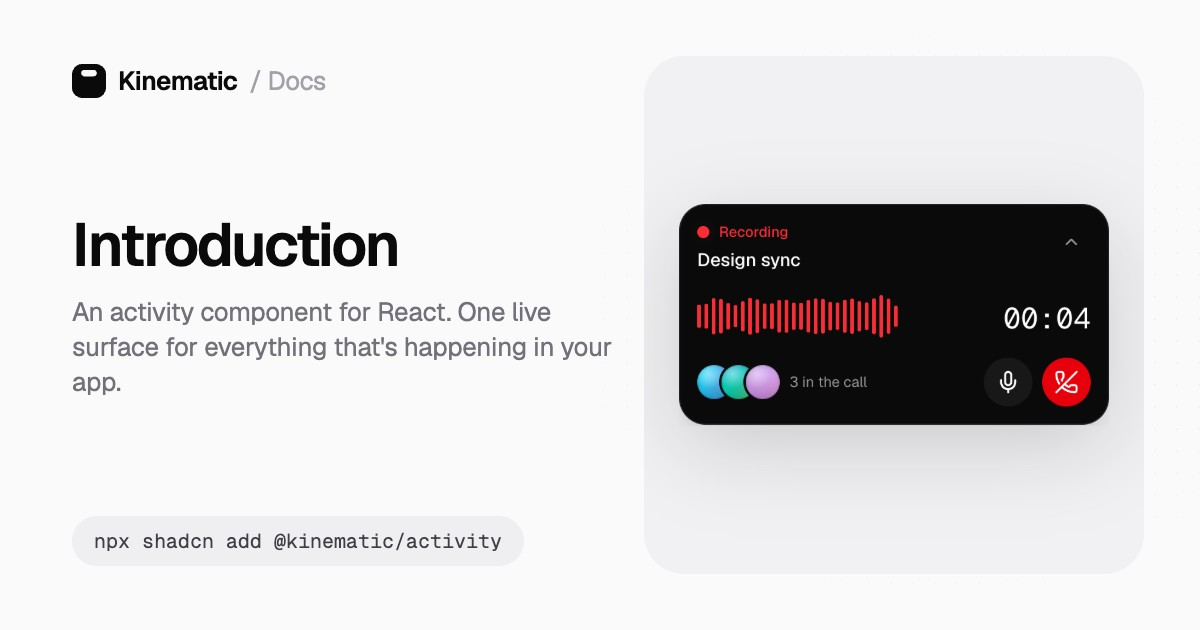
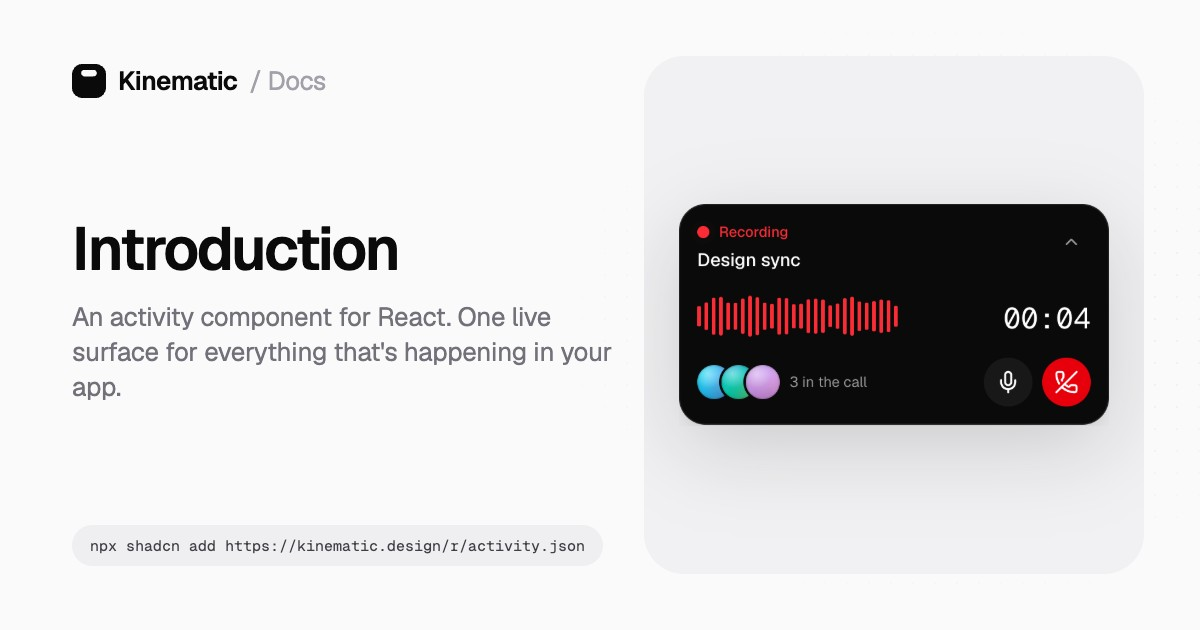
Install by URL until the shadcn directory lists @kinematic
The namespaced command fails for anyone without the registry
configured. Every install command on the site now comes from one
helper driven by site.registry.listed, which uses the registry URL
today and switches to @kinematic/... once listed. Registry items
reference their dependencies by URL so a URL install resolves them,
the smoke test installs the same way users do, and pnpm og fails
fast when the dev server is not running.

diff --git a/src/components/site/install-command.tsx b/src/components/site/install-command.tsx
@@ -1,6 +1,7 @@
 "use client"
 
 import { CopyButton } from "@/components/site/copy-button"
+import { shadcnAdd } from "@/lib/install"
 import { Tabs, TabsContent, TabsList, TabsTrigger } from "@/components/ui/tabs"
 
 const runners = {
@@ -16,7 +17,8 @@ function commandFor(runner: Runner, args: string) {
   return `${runners[runner]} shadcn@latest ${args}`
 }
 
-export function InstallCommand({ args }: { args: string }) {
+export function InstallCommand({ args, items = ["activity"] }: { args?: string; items?: string[] }) {
+  const command = args ?? shadcnAdd(items)
   return (
     <Tabs defaultValue="pnpm" className="not-prose my-4 gap-0 overflow-hidden rounded-xl border bg-code">
       <div className="flex items-center border-b px-2 py-1.5">
@@ -30,8 +32,8 @@ export function InstallCommand({ args }: { args: string }) {
       </div>
       {(Object.keys(runners) as Runner[]).map((runner) => (
         <TabsContent key={runner} value={runner} className="flex items-center justify-between gap-4 py-2 pr-2 pl-4">
-          <code className="overflow-x-auto font-mono text-[13px] whitespace-nowrap">{commandFor(runner, args)}</code>
-          <CopyButton value={commandFor(runner, args)} />
+          <code className="overflow-x-auto font-mono text-[13px] whitespace-nowrap">{commandFor(runner, command)}</code>
+          <CopyButton value={commandFor(runner, command)} />
         </TabsContent>
       ))}
     </Tabs>

diff --git a/src/app/page.tsx b/src/app/page.tsx
@@ -9,6 +9,7 @@ import { CopyButton } from "@/components/site/copy-button"
 import { PageIntro } from "@/components/site/page-intro"
 import { JsonLd } from "@/components/site/json-ld"
 import { site } from "@/config/site"
+import { installCommand } from "@/lib/install"
 import { pageMetadata } from "@/lib/metadata"
 import { sourceCodeSchema, websiteSchema } from "@/lib/structured-data"
 
@@ -19,17 +20,15 @@ const LINKS = [
   { label: "Playground", href: "/playground" },
 ]
 
-const INSTALL_COMMAND = `npx shadcn add ${site.registryNamespace}/activity`
-
 function Hero() {
   return (
     <PageIntro title="Activity Component for React." tagline="Built for things that take a while.">
       <div className="flex max-w-full flex-wrap items-center gap-x-6 gap-y-3 text-sm">
         <span className="flex h-10 max-w-full min-w-0 items-center gap-0.5 rounded-full bg-muted pr-1 pl-4">
           <code className="min-w-0 overflow-hidden font-mono text-[13px] text-ellipsis whitespace-nowrap">
-            {INSTALL_COMMAND}
+            {installCommand}
           </code>
-          <CopyButton value={INSTALL_COMMAND} className="shrink-0" />
+          <CopyButton value={installCommand} className="shrink-0" />
         </span>
         {LINKS.map((link) => (
           <Link

diff --git a/src/app/showcase/[id]/page.tsx b/src/app/showcase/[id]/page.tsx
@@ -9,7 +9,6 @@ import { Step, Steps } from "@/components/site/docs-blocks"
 import { HighlightedCode } from "@/components/site/highlighted-code"
 import { InstallCommand } from "@/components/site/install-command"
 import { JsonLd } from "@/components/site/json-ld"
-import { site } from "@/config/site"
 import { pageMetadata } from "@/lib/metadata"
 import { breadcrumbSchema, sourceCodeSchema } from "@/lib/structured-data"
 import { readExampleSource } from "@/lib/registry-files"
@@ -50,7 +49,7 @@ async function ShowcaseItem({ params }: { params: Params }) {
   const code = (
     <Steps className="my-1 gap-7">
       <Step title="Add the primitives">
-        <InstallCommand args={`add ${registryItems.map((name) => `${site.registryNamespace}/${name}`).join(" ")}`} />
+        <InstallCommand items={registryItems} />
       </Step>
       <Step title="Copy the file">
         <p>

diff --git a/src/components/playground/code-panel.tsx b/src/components/playground/code-panel.tsx
@@ -2,7 +2,6 @@ import type { CatalogItem, Options } from "@/components/playground/catalog"
 import type { StageSettings } from "@/components/playground/stage"
 import { HighlightedCode } from "@/components/site/highlighted-code"
 import { InstallCommand } from "@/components/site/install-command"
-import { site } from "@/config/site"
 
 function viewportCode({ position, layout }: StageSettings) {
   const props = [
@@ -37,7 +36,7 @@ export function CodePanel({
   return (
     <div className="flex flex-col gap-5">
       <Step title="1. Install">
-        <InstallCommand args={`add ${site.registryNamespace}/${item.registry}`} />
+        <InstallCommand items={[item.registry]} />
       </Step>
       <Step title="2. Once, in your root layout">
         <HighlightedCode code={viewportCode(settings)} />

diff --git a/src/lib/install.ts b/src/lib/install.ts
@@ -1,0 +1,12 @@
+import { site } from "@/config/site"
+
+function registryItem(name: string) {
+  const { namespace, url, listed } = site.registry
+  return listed ? `${namespace}/${name}` : `${url}/${name}.json`
+}
+
+export function shadcnAdd(items: string[]) {
+  return `add ${items.map(registryItem).join(" ")}`
+}
+
+export const installCommand = `npx shadcn@latest ${shadcnAdd(["activity"])}`

diff --git a/src/config/site.ts b/src/config/site.ts
@@ -17,6 +17,6 @@ export const site = {
   ],
   url: "https://kinematic.design",
   github: "https://github.com/Soumyadas15/kinematic",
-  registryNamespace: "@kinematic",
+  registry: { namespace: "@kinematic", url: "https://kinematic.design/r", listed: false },
   author: { name: "Saumya Das", url: "https://saumyadas.dev" },
 }

diff --git a/README.md b/README.md
@@ -11,8 +11,7 @@ It sits small when you glance at it and opens up when you look. Start something 
 In a project that already uses shadcn/ui:
 
 ```bash
-npx shadcn@latest registry add @kinematic=https://kinematic.design/r/{name}.json
-npx shadcn@latest add @kinematic/activity
+npx shadcn@latest add https://kinematic.design/r/activity.json
 ```
 
 Render the viewport once, near the root of your app:
